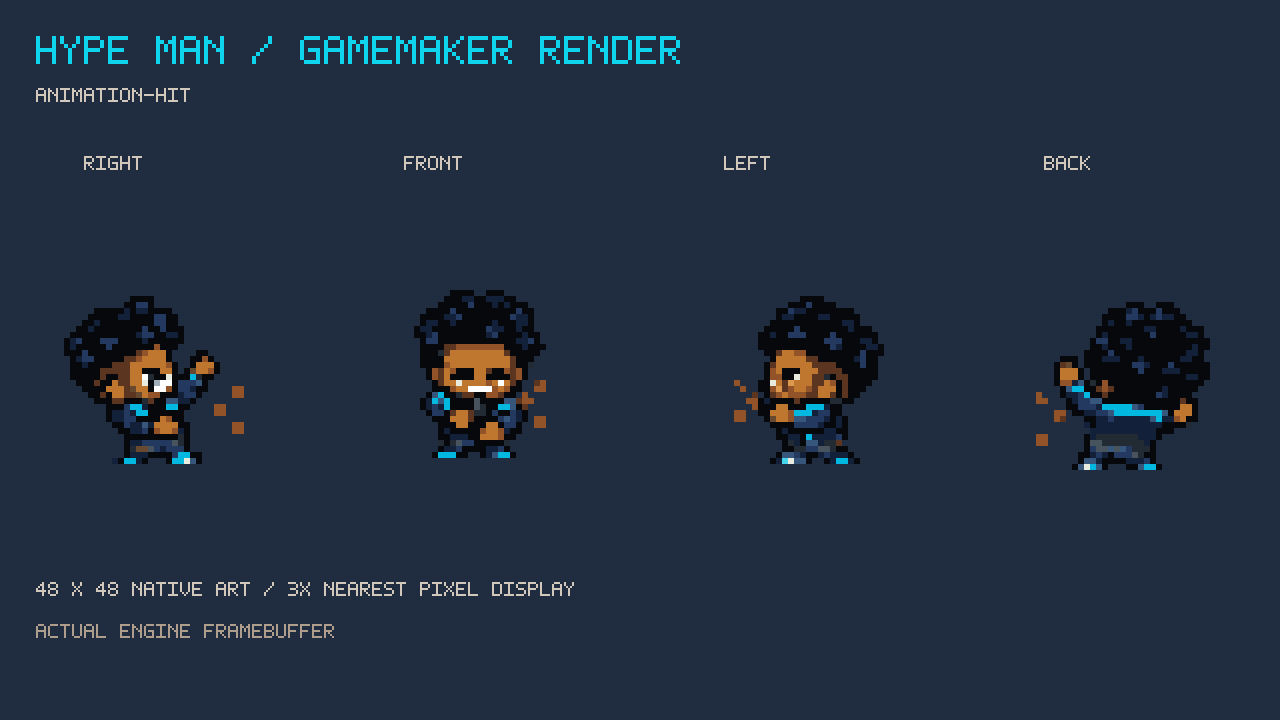
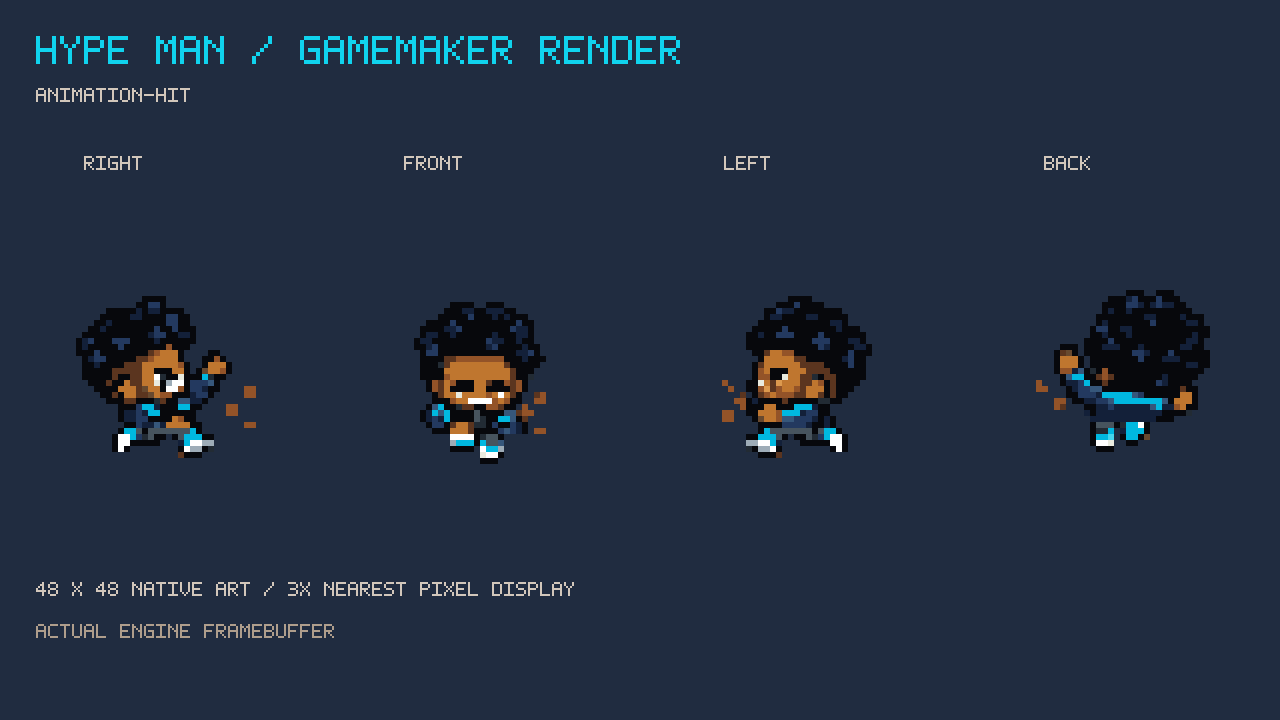
Correct directional hit review capture

diff --git a/docs/hypeman-v9-action-pass.md b/docs/hypeman-v9-action-pass.md
@@ -34,6 +34,7 @@ The action source is [Hype-Man-v9-Actions.aseprite](../art/hypeman-v8-proof/Hype
 - Four-view engine captures of the [reload start](../art/hypeman-v8-proof/review-v9/game-renders/animation-reload-start.png), magazine contact, and [return to aim](../art/hypeman-v8-proof/review-v9/game-renders/animation-reload-ready.png) verify that all three source poses reach the runtime in the intended order.
 - A dedicated [On a Roll room capture](../art/hypeman-v8-proof/review-v9/game-renders/hype.png) exposed motes that were too small and rendered yellow because of GameMaker's colour-literal ordering. The revised effect uses explicit RGB values and larger cyan/white clusters. Bullets draw later than the character effect, retaining their visibility.
 - Actual GameMaker [moving reload](../art/hypeman-v8-proof/review-v9/game-renders/reload-moving.png) and [moving ability](../art/hypeman-v8-proof/review-v9/game-renders/ability-moving.png) captures show the action/run-leg composition in the room. Refreshed four-view [reload](../art/hypeman-v8-proof/review-v9/game-renders/animation-reload.png) and [ability](../art/hypeman-v8-proof/review-v9/game-renders/animation-noise.png) captures show its character-scale join. Still frames cannot establish live movement feel.
+- The four-view hit fixture originally reused the right-facing hit latch for every label. It now sets each view's actual hit facing and impact direction. The corrected [engine hit gallery](../art/hypeman-v8-proof/review-v9/game-renders/animation-hit.png) shows distinct right, front, left, and back poses. The correction passed the 105-check suite, input adapter, and runtime smoke test again; log: `work/test-0ed7158004b147539cae1168a5b9f2c9.log`.
 
 ## What still needs judgment
 
@@ -50,5 +51,6 @@ The action source is [Hype-Man-v9-Actions.aseprite](../art/hypeman-v8-proof/Hype
 5. Keep technical validation, visual acceptance, and physical input feel as separate gates. Record which one each piece of evidence supports.
 6. Capture world-space effects in the actual room. A character-only gallery omits them, and GameMaker colour literals can differ from a hex code's usual RGB reading; use explicit RGB construction for critical cues.
 7. Check whether a full-body action pose holds the feet still while gameplay movement continues. Compose upper-body actions with locomotion legs when moving, then inspect the join at game scale and test the action timing separately.
+8. Validate review fixtures as carefully as gameplay. Direction labels alone do not prove that a latched action state selected the corresponding sprite; initialize the latch for each view before capturing.
 
 Newtype method used: game development lifecycle in production and testing; pixel-art animation production for timed action keys; GameMaker art integration for native export and runtime review. Runtime skills used: `pixel-art-animation-skill` and `gamemaker-art-integration-skill`. No Newtype agent was used.
